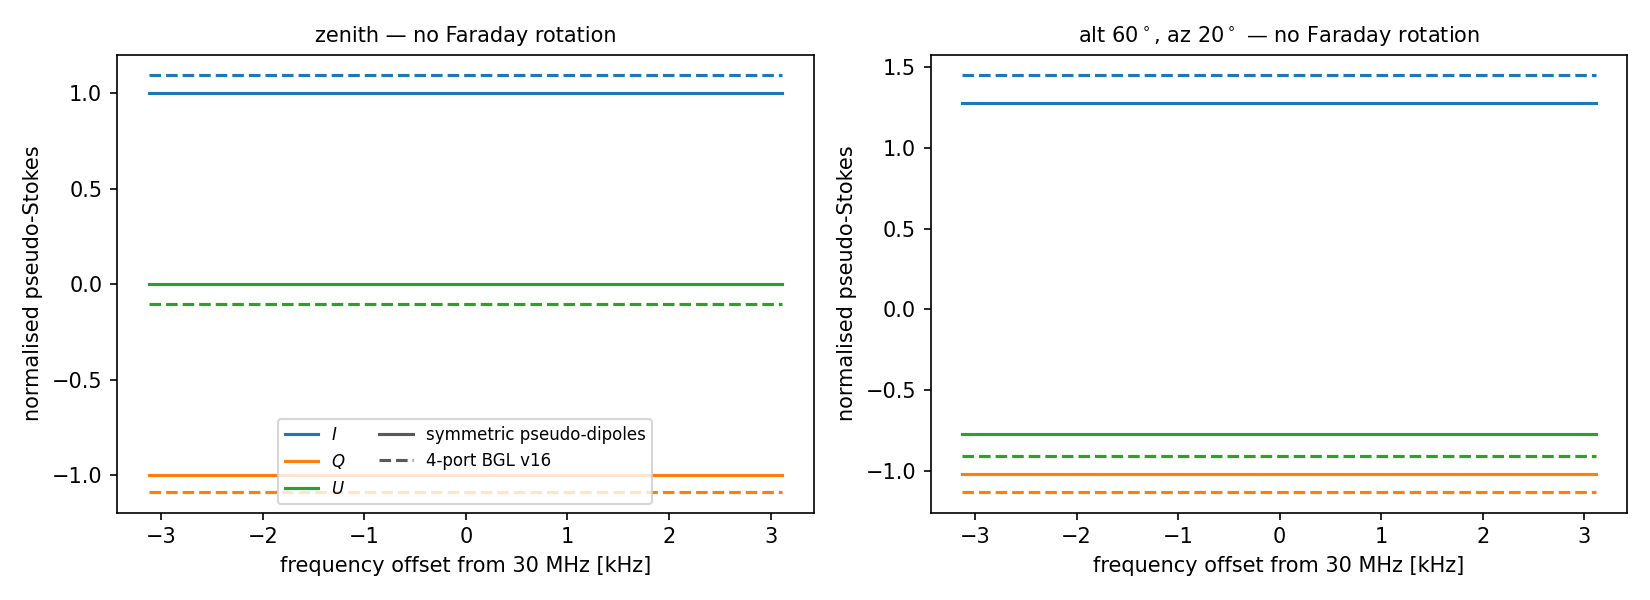
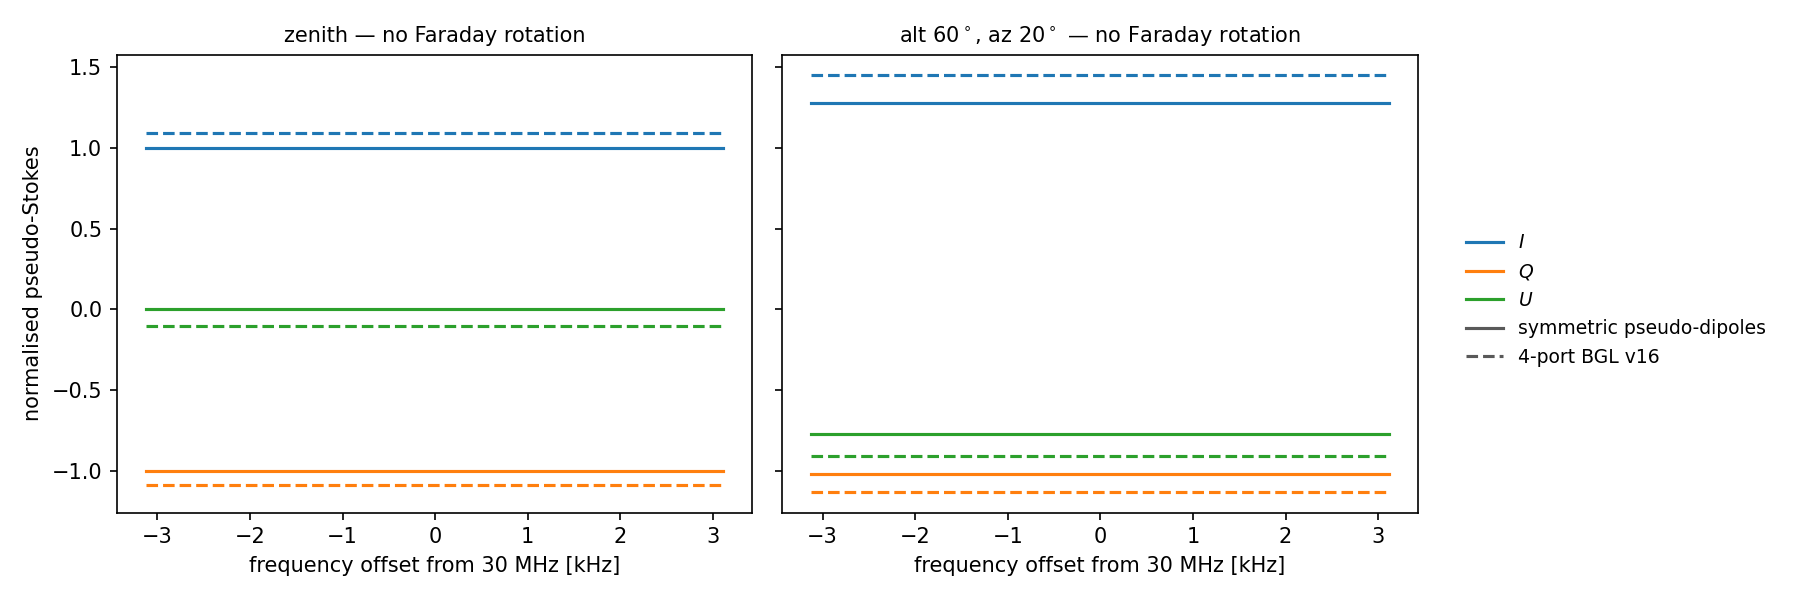
Move the spectrum legend outside the axes and share y between panels
Both panels of cmp_faraday_spectrum and cmp_faraday_off now share a y
axis, so the zenith and off-zenith cases are directly comparable by eye,
and the legend sits outside the plotting area instead of covering the
curves.

diff --git a/scripts/compare_main_vs_asbuilt.py b/scripts/compare_main_vs_asbuilt.py
@@ -279,7 +279,7 @@ def fig_spectrum(main, ab, phi_fd, fname, center=30.0, nfine=512):
     tag = (rf"$\phi_{{\rm FD}} = {phi_fd:g}$ rad m$^{{-2}}$" if phi_fd
            else "no Faraday rotation")
     cases = [("zenith", 90.0, 0.0), (r"alt $60^\circ$, az $20^\circ$", 60.0, 20.0)]
-    fig, axes = plt.subplots(1, 2, figsize=(11, 4))
+    fig, axes = plt.subplots(1, 2, figsize=(12, 4), sharey=True)
     for ax, (label, alt, az) in zip(axes, cases):
         th = np.full_like(freqs, np.radians(90.0 - alt))
         ph = np.full_like(freqs, np.radians(az))
@@ -291,8 +291,9 @@ def fig_spectrum(main, ab, phi_fd, fname, center=30.0, nfine=512):
         for arr, c in ((aI, "C0"), (aQ, "C1"), (aU, "C2")):
             ax.plot(foff, arr, color=c, lw=1.5, ls="--")
         ax.set_xlabel(f"frequency offset from {center:g} MHz [kHz]")
-        ax.set_ylabel("normalised pseudo-Stokes")
         ax.set_title(f"{label} — {tag}", fontsize=10)
+        if ax is axes[0]:
+            ax.set_ylabel("normalised pseudo-Stokes")
         # pointwise fractional polarization; PSD-ness of J T J^H bounds
         # sqrt(Q^2+U^2+V^2) <= I, so these must not exceed 1.
         p_m = np.hypot(mQ, mU) / mI
@@ -312,8 +313,14 @@ def fig_spectrum(main, ab, phi_fd, fname, center=30.0, nfine=512):
         Line2D([], [], color="0.35", ls="-", label="symmetric pseudo-dipoles"),
         Line2D([], [], color="0.35", ls="--", label="4-port BGL v16"),
     ]
-    axes[0].legend(handles=handles, ncol=2, fontsize=8, loc="lower center")
-    plt.tight_layout()
+    fig.tight_layout(rect=[0, 0, 0.80, 1])
+    fig.legend(
+        handles=handles,
+        loc="center left",
+        bbox_to_anchor=(0.805, 0.5),
+        fontsize=9,
+        frameon=False,
+    )
     plt.savefig(FIG_DIR / fname, dpi=150)
     plt.close()
     print(f"  -> {fname}")
